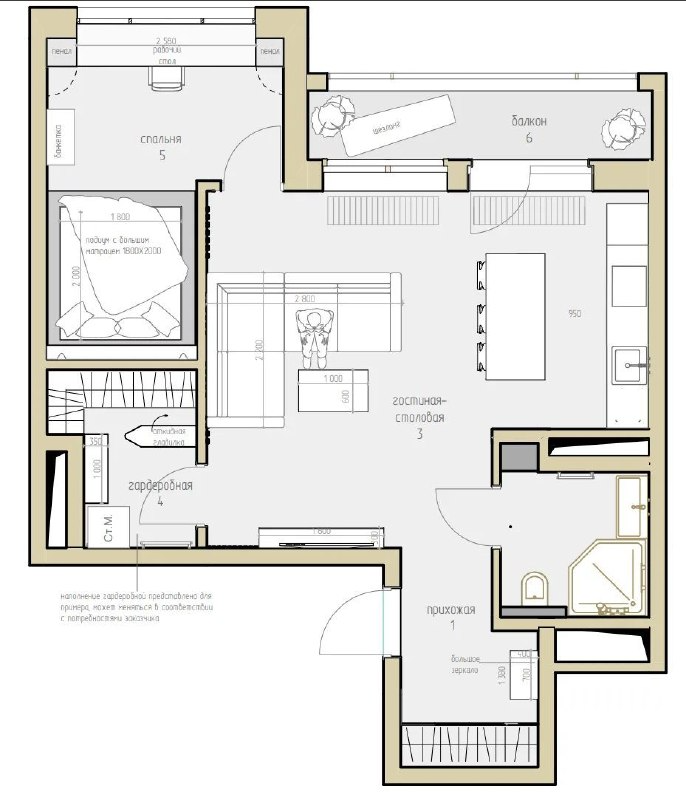
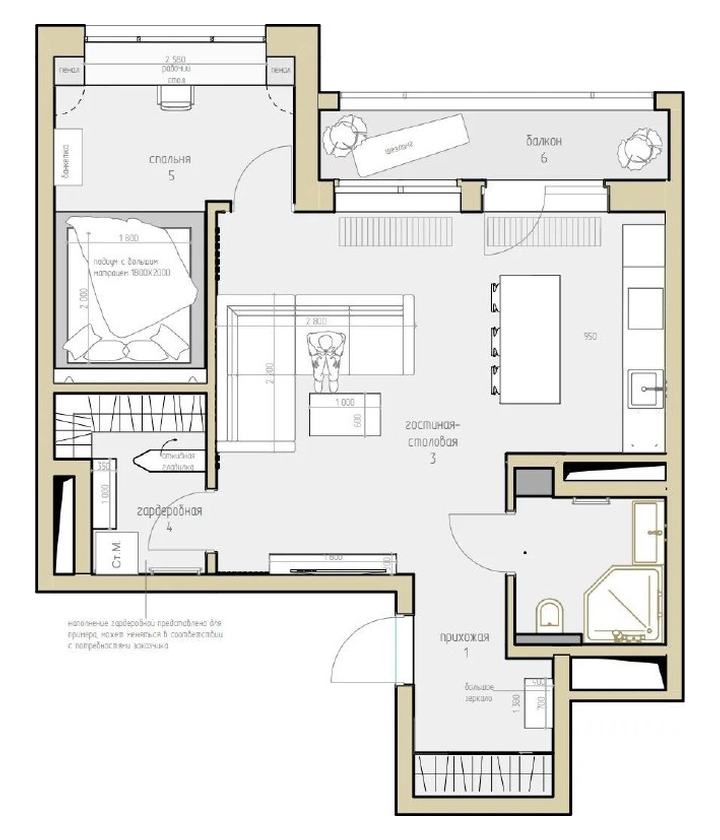
Кристина: планы почищены — убрана лишняя полоса сверху, оба плана в одном масштабе и с одинаковыми полями
Claude-Session: https://claude.ai/code/session_018hLzmAMm8burTEaLUNvxbd

Changed region(s): [[0.0306, 0.0, 0.9796, 1.0], [0.4592, 0.75, 0.4898, 0.8125], [0.6122, 0.625, 0.6429, 0.6562]]

diff --git a/clients/interior-designer-landing-b86ff3/index.html b/clients/interior-designer-landing-b86ff3/index.html
@@ -107,8 +107,8 @@ h3{font-size:clamp(1.7rem,2.4vw,2.2rem)}
 .chg.off li{opacity:.4}
 .note{margin-top:22px;font-size:14px;color:var(--mut)}
 .cap{display:flex;flex-wrap:wrap;justify-content:space-between;gap:4px 16px;margin-top:14px;font-size:14px;color:var(--mut)}
-.pln{position:relative;aspect-ratio:686/800;max-height:78vh;margin:0 auto;background:#fff;border-radius:22px;overflow:hidden}
-.pln img{position:absolute;inset:4%;width:92%;height:92%;object-fit:contain;transition:opacity .6s var(--e)}
+.pln{position:relative;aspect-ratio:720/840;max-height:78vh;margin:0 auto;background:#fff;border-radius:22px;overflow:hidden}
+.pln img{position:absolute;inset:3%;width:94%;height:94%;object-fit:contain;transition:opacity .6s var(--e)}
 .pln .pb{opacity:0}
 .pln.before .pb{opacity:1}.pln.before .pa{opacity:0}
 
@@ -347,8 +347,8 @@ body{font-size:16px;padding-bottom:84px}
       </div>
       <div data-r>
         <div class="pln" id="pln">
-          <img class="pb" src="img/plan-before.png" width="666" height="800" loading="lazy" alt="План до: открытая студия 58,4 м² и балкон 4,96 м²">
-          <img class="pa" src="img/plan-after.png" width="686" height="800" loading="lazy" alt="План после: спальня, гостиная-столовая, гардеробная, прихожая, санузел и балкон">
+          <img class="pb" src="img/plan-before.png" width="720" height="840" loading="lazy" alt="План до: открытая студия 58,4 м² и балкон 4,96 м²">
+          <img class="pa" src="img/plan-after.png" width="720" height="840" loading="lazy" alt="План после: спальня, гостиная-столовая, гардеробная, прихожая, санузел и балкон">
         </div>
         <div class="cap"><span id="plc">Решение дизайнера</span><span>Площадь 58,4 м² + балкон 4,96 м²</span></div>
       </div>
